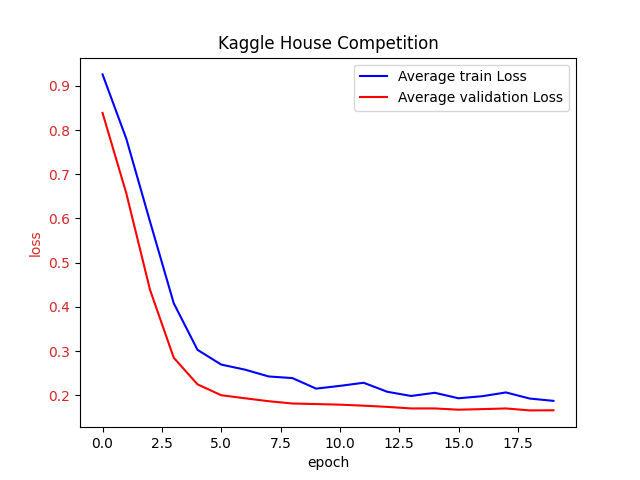
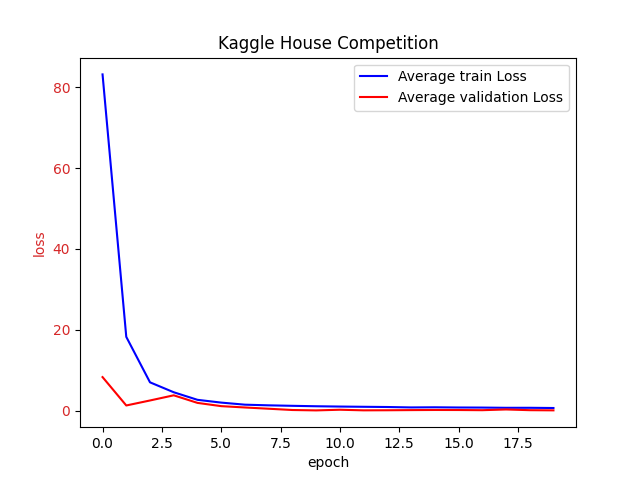
fix[ch5] Correct features normalization in Kaggle House Price competion.

diff --git a/chapter-5_multilayer-perceptrons/kaggle_house_competition/kaggle_house_competition.py b/chapter-5_multilayer-perceptrons/kaggle_house_competition/kaggle_house_competition.py
@@ -19,21 +19,24 @@ import matplotlib.pylab as plt
 
 
 class KaggleHouseDateset:
+    id_label = 'Id'
+    y_label = 'SalePrice'
+
     def __init__(
         self,
         train_data: pd.DataFrame,
         test_data: pd.DataFrame,
         num_folds: int = 5,
     ) -> None:
-        self._train_folds = self._fold_data(self._preprocess_data(train_data), num_folds)
-        self._test_data = self._tensor_from_pandas(self._preprocess_data(test_data))
+        train_df, test_df = self._preprocess_data(train_data, test_data)
+        self._train_folds = self._fold_data(train_df, num_folds)
+        self._test_data = self._tensor_from_pandas(test_df)
 
     def get_data_loaders(
         self,
         valid_fold_index: int,
         batch_size: int,
     ) -> tuple[torch.utils.data.DataLoader,
-               torch.utils.data.DataLoader,
                torch.utils.data.DataLoader]:
         logger.debug("creating data loaders, index of valid fold = {}", valid_fold_index)
         assert valid_fold_index < len(self._train_folds)
@@ -59,33 +62,44 @@ class KaggleHouseDateset:
         dataset = torch.utils.data.TensorDataset(valid_features, valid_target)
         valid_data_loader = torch.utils.data.DataLoader(dataset, batch_size=batch_size)
 
-        # test data loader
-        dataset = torch.utils.data.TensorDataset(self._test_data)
-        test_data_loader = torch.utils.data.DataLoader(dataset, batch_size=batch_size)
+        logger.debug("batches: train = {}, valid = {}",
+                     len(train_data_loader), len(valid_data_loader))
+        return (train_data_loader, valid_data_loader)
 
-        logger.debug("batches: train = {}, valid = {}, test = {}",
-                     len(train_data_loader), len(valid_data_loader), len(test_data_loader))
-        return (train_data_loader, valid_data_loader, test_data_loader)
+    def get_test_data(self) -> torch.Tensor:
+        return self._test_data
 
     @staticmethod
     def _preprocess_data(
-        data: pd.DataFrame,
-    ) -> pd.DataFrame:
-        assert data is not None
+        train_data: pd.DataFrame,
+        test_data: pd.DataFrame,
+    ) -> tuple[pd.DataFrame, pd.DataFrame]:
+        assert train_data is not None
+        assert test_data is not None
 
-        # Normalization
-        numeric_column_labels = data.select_dtypes(include='number').columns
-        numeric_columns = data[numeric_column_labels]
-        data[numeric_column_labels] = numeric_columns.apply(
+        id_label = KaggleHouseDateset.id_label
+        y_label = KaggleHouseDateset.y_label
+
+        # Normalize features
+        train_features = train_data.drop(columns=[id_label, y_label])
+        test_features = test_data.drop(columns=id_label)
+        features = pd.concat((train_features, test_features))
+
+        numeric_column_labels = features.select_dtypes(include='number').columns
+        numeric_columns = features[numeric_column_labels]
+        features[numeric_column_labels] = numeric_columns.apply(
             lambda x: (x - x.mean()) / x.std())
 
         # NAN to 0
-        data = data.fillna(0)
+        features = features.fillna(0)
 
         # Categorical to one-hot
-        data = pd.get_dummies(data, dtype=int)
+        features = pd.get_dummies(features, dtype=int)
 
-        return data
+        start_of_test = train_features.shape[0]
+        train_df = features[:start_of_test].copy().assign(**{y_label: train_data[y_label]})
+        test_df = features[start_of_test:].copy()
+        return (train_df, test_df)
 
     @staticmethod
     def _fold_data(
@@ -116,14 +130,16 @@ class KaggleHouseDateset:
     def _tensors_from_pandas(
         data: pd.DataFrame
     ) -> tuple[torch.Tensor, torch.Tensor]:
-        y_label = 'SalePrice'
+        y_label = KaggleHouseDateset.y_label
         assert y_label in data
 
         features = data.drop(columns=y_label)
         target = data[y_label]
         return (
             KaggleHouseDateset._tensor_from_pandas(features),
-            KaggleHouseDateset._tensor_from_pandas(target).reshape(-1, 1),
+            # Use the logarithm helps normalize the differences and allows comparison
+            # of relative errors more effectively.
+            torch.log(KaggleHouseDateset._tensor_from_pandas(target).reshape(-1, 1)),
         )
 
     @staticmethod
@@ -293,7 +309,7 @@ def k_fold(
     k: int,
     max_epochs: int,
     plotter: MetricsPlotter,
-) -> None:
+) -> list[MLP]:
     learning_rate = 0.01
     weight_decay = 0.01
     num_hidden_units = [128, 128]
@@ -314,7 +330,7 @@ def k_fold(
         total_train_loss = 0.0
         total_validate_loss = 0.0
         for i, trainer, validator in zip(range(k), trainers, validators):
-            train_data_loader, valid_data_loader, _ = dataset.get_data_loaders(i, batch_size)
+            train_data_loader, valid_data_loader = dataset.get_data_loaders(i, batch_size)
 
             train_loss = trainer(train_data_loader)
             validate_loss = validator(valid_data_loader)
@@ -333,6 +349,8 @@ def k_fold(
         logger.info("epoch #{}: average_train_loss = {:.3f}, average_validate_loss = {:.3f}",
                     epoch, average_train_loss, average_validate_loss)
 
+    return models
+
 
 def main():
     competition = "house-prices-advanced-regression-techniques"
@@ -342,10 +360,11 @@ def main():
 
     num_folds = 5
     max_epochs = 20
-    k_fold(dataset, num_folds, max_epochs, plotter)
+    models = k_fold(dataset, num_folds, max_epochs, plotter)
     plotter.plot()
 
     # Test
+    test_data = dataset.get_test_data()
     # TODO
 
     logger.info("Done!")

diff --git a/chapter-5_multilayer-perceptrons/kaggle_house_competition/test_kaggle_house_competition.py b/chapter-5_multilayer-perceptrons/kaggle_house_competition/test_kaggle_house_competition.py
@@ -38,25 +38,49 @@ def test_fold_data():
 
 def test_preprocess_data():
     NAN = float('nan')
-    idf = pd.DataFrame({
+    train_df = pd.DataFrame({
+        'Id': [1, 2, 3, 4, 5, 6],
+        'Feature1': [0., 0., 0., 0., 0., 0.],
+        'Feature2': [1, NAN, 3, 4, NAN, 6],
+        'Feature3': [NAN, NAN, NAN, NAN, NAN, NAN],
+        'Feature4': ['male', 'male', 'female', 'female', 'female', 'male'],
+        'SalePrice': [100, 200, 300, 400, 500, 600],
+    })
+
+    test_df = pd.DataFrame({
+        'Id': [1, 2, 3, 4, 5, 6],
         'Feature1': [0., 0., 0., 0., 0., 0.],
         'Feature2': [1, NAN, 3, 4, NAN, 6],
         'Feature3': [NAN, NAN, NAN, NAN, NAN, NAN],
         'Feature4': ['male', 'male', 'female', 'unknown', 'female', 'male'],
     })
 
-    expected_odf = pd.DataFrame({
+    expected_preprocessed_train_df = pd.DataFrame({
         'Feature1': [0., 0., 0., 0., 0., 0.],
-        'Feature2': [-1.20, 0., -0.24, 0.24, 0., 1.20],
+        'Feature2': [-1.29, 0., -0.25, 0.25, 0., 1.29],
+        'Feature3': [0., 0., 0., 0., 0., 0.],
+        'Feature4_male': [1, 1, 0, 0, 0, 1],
+        'Feature4_female': [0, 0, 1, 1, 1, 0],
+        'Feature4_unknown': [0, 0, 0, 0, 0, 0],
+        'SalePrice': [100, 200, 300, 400, 500, 600],
+    })
+
+    expected_preprocessed_test_df = pd.DataFrame({
+        'Feature1': [0., 0., 0., 0., 0., 0.],
+        'Feature2': [-1.29, 0., -0.25, 0.25, 0., 1.29],
         'Feature3': [0., 0., 0., 0., 0., 0.],
         'Feature4_male': [1, 1, 0, 0, 0, 1],
         'Feature4_female': [0, 0, 1, 0, 1, 0],
         'Feature4_unknown': [0, 0, 0, 1, 0, 0],
     })
 
-    odf = KaggleHouseDateset._preprocess_data(idf)
+    preprocessed_train_df, preprocessed_test_df = KaggleHouseDateset._preprocess_data(
+        train_df, test_df)
 
-    pd.testing.assert_frame_equal(odf, expected_odf, rtol=0.01, check_like=True)
+    pd.testing.assert_frame_equal(
+        preprocessed_train_df, expected_preprocessed_train_df, rtol=0.1, check_like=True)
+    pd.testing.assert_frame_equal(
+        preprocessed_test_df, expected_preprocessed_test_df, rtol=0.1, check_like=True)
 
 
 @pytest.mark.parametrize(
@@ -73,6 +97,7 @@ def test_kaggle_house_dataset(
 ):
     NAN = float('nan')
     train_df = pd.DataFrame({
+        'Id': [1, 2, 3, 4, 5, 6],
         'Feature1': [0., 0., 0., 0., 0., 0.],
         'Feature2': [1, NAN, 3, 4, NAN, 6],
         'Feature3': [NAN, NAN, NAN, NAN, NAN, NAN],
@@ -89,6 +114,7 @@ def test_kaggle_house_dataset(
         })
 
     test_df = pd.DataFrame({
+        'Id': [1, 2, 3, 4, 5, 6],
         'Feature1': [0., 0., 0., 0., 0., 0.],
         'Feature2': [1, NAN, 3, 4, NAN, 6],
         'Feature3': [NAN, NAN, NAN, NAN, NAN, NAN],
@@ -112,12 +138,9 @@ def test_kaggle_house_dataset(
     assert isinstance(dataset._test_data, torch.Tensor)
 
     for i in range(num_folds):
-        train_loader, valid_loader, test_loader = dataset.get_data_loaders(i, batch_size=1)
+        train_loader, valid_loader = dataset.get_data_loaders(i, batch_size=1)
 
         assert isinstance(train_loader, torch.utils.data.DataLoader)
         assert isinstance(valid_loader, torch.utils.data.DataLoader)
-        assert isinstance(test_loader, torch.utils.data.DataLoader)
 
         assert (len(train_loader), len(valid_loader)) in expected_lens
-
-        assert len(test_loader) == len(test_df)
